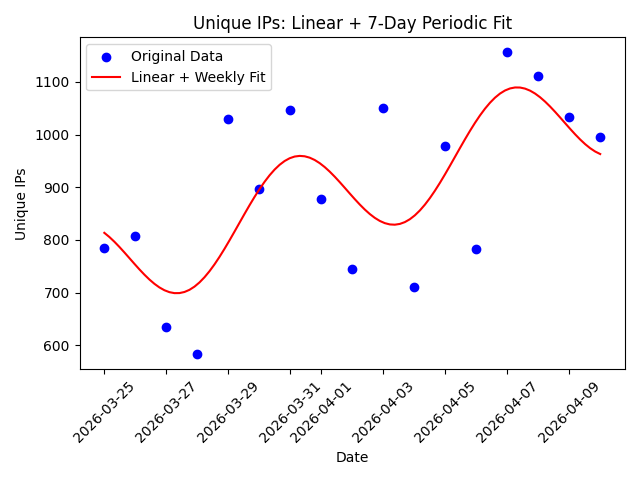
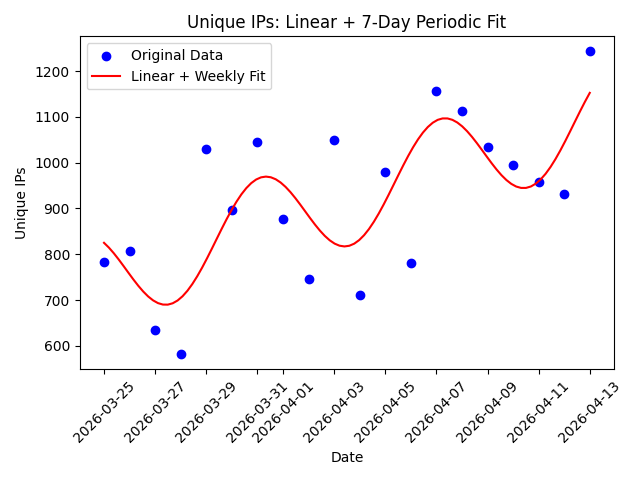
Adding link to Tetrisweeper

diff --git a/dataanalysis/linearfit.py b/dataanalysis/linearfit.py
@@ -7,12 +7,12 @@ from datetime import datetime
 # Data from the image
 data = {
     'Date': [
-        '4/10/26', '4/9/26', '4/8/26', '4/7/26', '4/6/26', '4/5/26', '4/4/26', 
+        '4/13/26', '4/12/26', '4/11/26', '4/10/26', '4/9/26', '4/8/26', '4/7/26', '4/6/26', '4/5/26', '4/4/26',
         '4/3/26', '4/2/26', '4/1/26', '3/31/26', '3/30/26', '3/29/26', '3/28/26', 
         '3/27/26', '3/26/26', '3/25/26'
     ],
     'Unique IPs': [
-        996, 1034, 1112, 1156, 782, 979, 711, 1050, 745, 877, 1046, 896, 1029, 
+        1243, 932, 957, 996, 1034, 1112, 1156, 782, 979, 711, 1050, 745, 877, 1046, 896, 1029, 
         583, 634, 808, 784
     ]
 }
